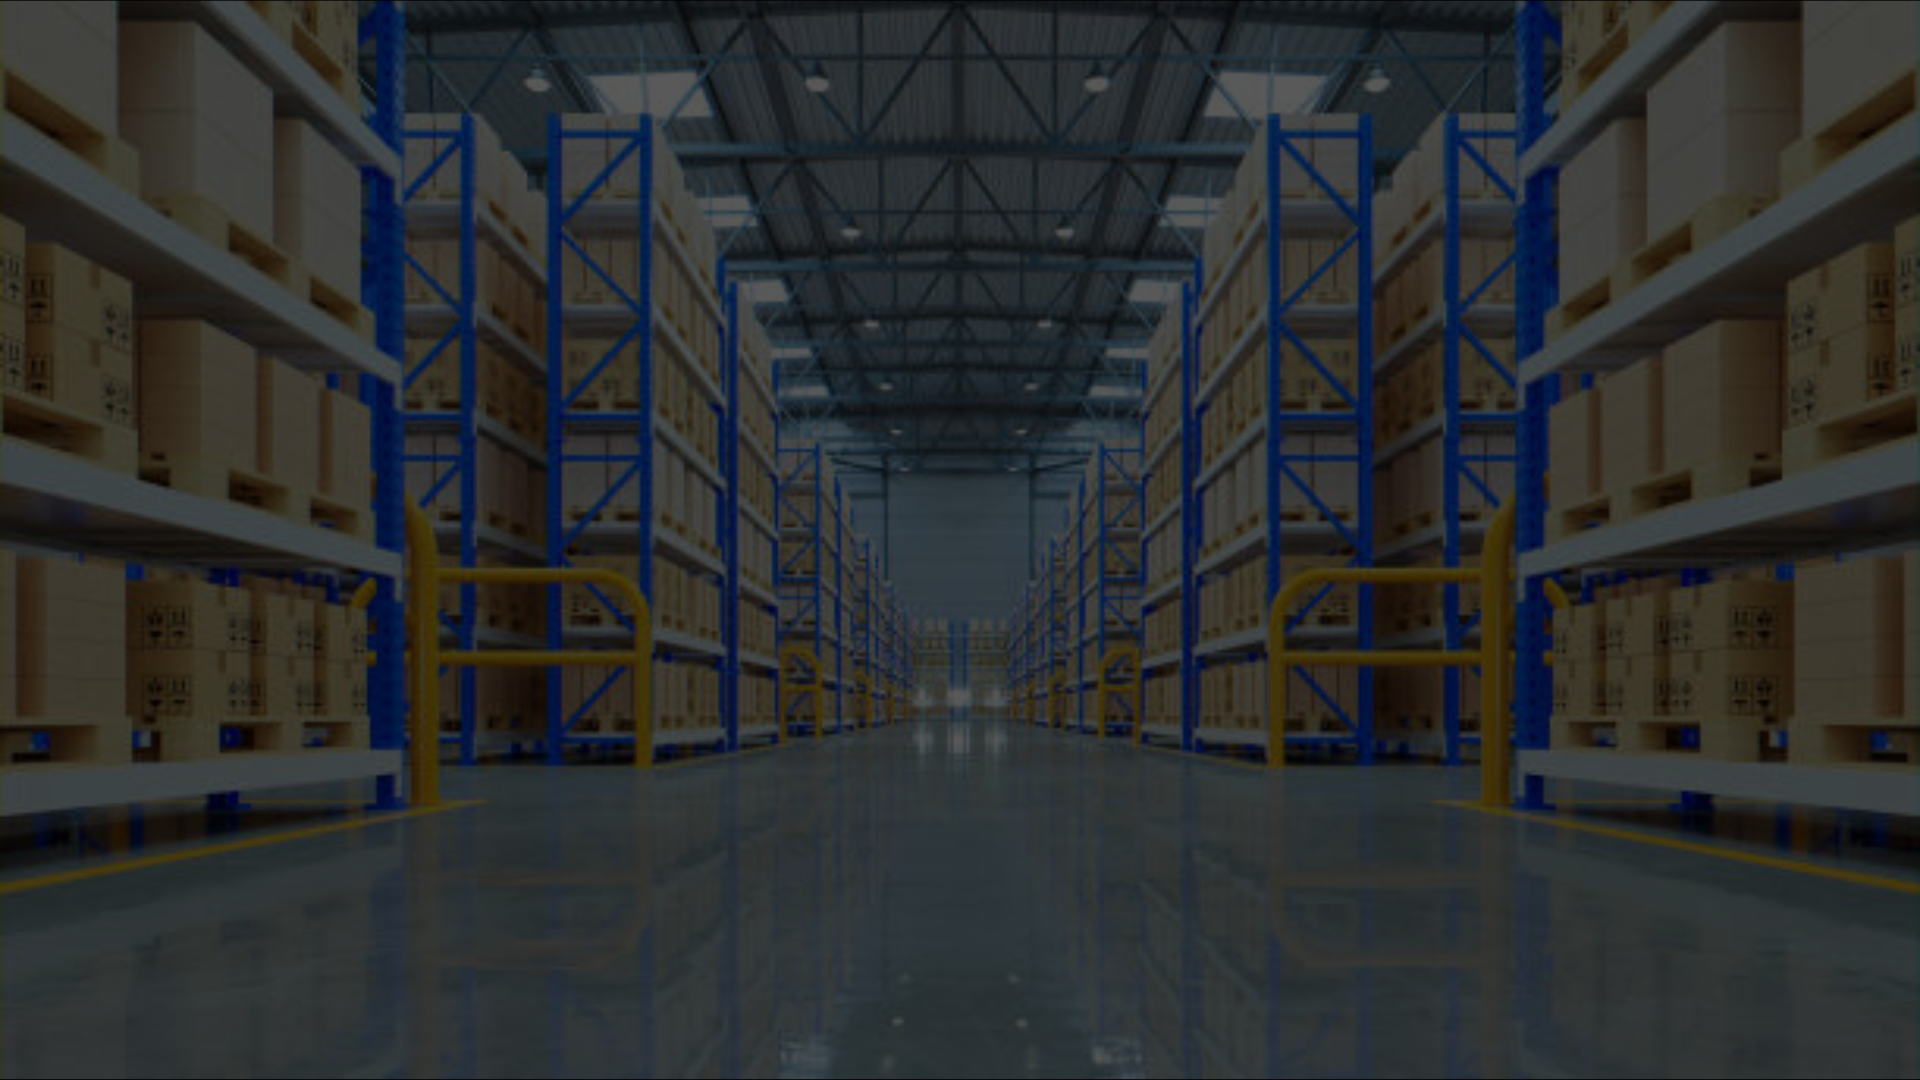
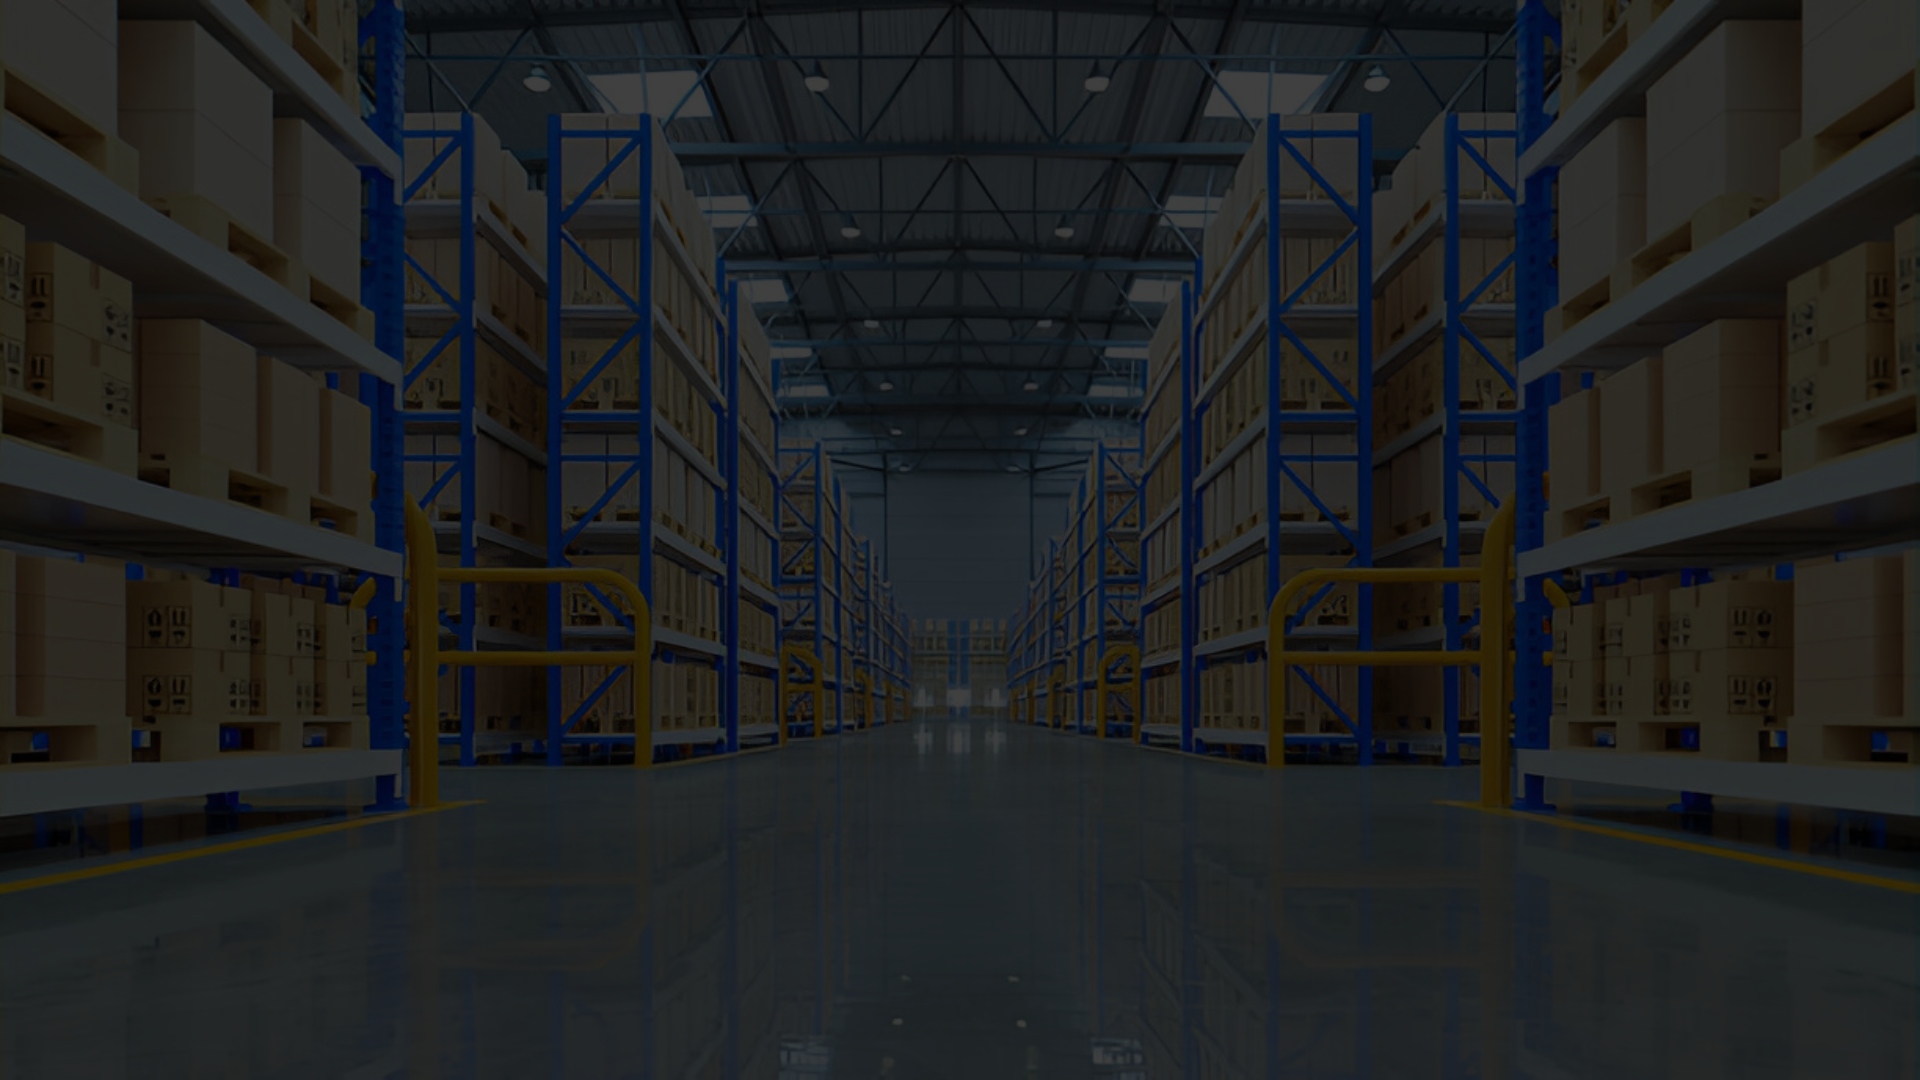
changes in design

diff --git a/Frontend/src/pages/ScanPage.jsx b/Frontend/src/pages/ScanPage.jsx
@@ -4,6 +4,7 @@ import { BrowserMultiFormatReader } from '@zxing/browser';
 import { DecodeHintType, BarcodeFormat } from '@zxing/library';
 import { useNavigate } from 'react-router-dom';
 import axios from 'axios';
+import bg from '../assets/bg page.png';
 
 const ScanPage = () => {
   const [items, setItems] = useState([]);
@@ -165,89 +166,96 @@ const ScanPage = () => {
   return (
     <>
       <Navbar />
-      <div className="pt-20 min-h-screen bg-gradient-to-br from-[#fefefe] to-[#f1f5ff] px-6 py-10 flex flex-wrap justify-center gap-8 items-start">
-        {/* Scanner Box */}
-        <div className="bg-white rounded-2xl shadow-lg p-6 w-full max-w-md transition hover:shadow-2xl">
-          <h2 className="text-xl font-semibold text-trueblue mb-4 text-center">📷 Scan Barcode</h2>
-          <video
-            ref={videoRef}
-            className="w-full h-60 object-cover rounded-md bg-black"
-            muted
-            playsInline
-          />
-          <button
-            onClick={handleToggleScan}
-            className={`mt-5 w-full py-2 font-semibold rounded-md transition text-white ${scanning
-              ? 'bg-red-500 hover:bg-red-600'
-              : 'bg-trueblue hover:bg-blue-800'
-              }`}
-          >
-            {scanning ? 'Stop Scanning' : 'Start Scanning'}
-          </button>
-        </div>
+      <div
+        className="min-h-screen bg-cover bg-center px-6 py-10"
+        style={{ backgroundImage: `url(${bg})` }}
+      >
+        <div className="flex flex-wrap justify-center gap-8 items-start pt-20">
 
-        {/* Manual Entry */}
-        <div className="bg-white rounded-2xl shadow-lg p-6 w-full max-w-md transition hover:shadow-2xl">
-          <h2 className="text-lg font-semibold text-trueblue mb-4 text-center">Manual Entry</h2>
-          <label className="block mb-2 text-sm font-medium text-gray-700">Enter Item ID:</label>
-          <div className="flex gap-2">
-            <input
-              type="text"
-              value={manualId}
-              onChange={(e) => setManualId(e.target.value)}
-              placeholder="e.g. 123456789012"
-              className="flex-grow px-3 py-2 border border-gray-300 rounded-md focus:outline-none focus:ring-2 focus:ring-trueblue"
+          
+          {/* Scanner Box */}
+          <div className="bg-white rounded-2xl shadow-lg p-6 w-full max-w-md transition hover:shadow-2xl">
+            <h2 className="text-xl font-semibold text-trueblue mb-4 text-center">📷 Scan Barcode</h2>
+            <video
+              ref={videoRef}
+              className="w-full h-60 object-cover rounded-md bg-black"
+              muted
+              playsInline
             />
             <button
-              onClick={handleManualAdd}
-              className="bg-trueblue text-white px-4 py-2 rounded-md hover:text-sparkyellow transition font-medium"
+              onClick={handleToggleScan}
+              className={`mt-5 w-full py-2 font-semibold rounded-md transition text-white ${scanning
+                ? 'bg-red-500 hover:bg-red-600'
+                : 'bg-trueblue hover:bg-blue-800'
+                }`}
             >
-              Add
+              {scanning ? 'Stop Scanning' : 'Start Scanning'}
             </button>
           </div>
-        </div>
 
-        {/* Scanned Items Table */}
-        <div className="bg-white rounded-2xl shadow-lg p-6 w-full max-w-5xl transition hover:shadow-2xl">
-          <h2 className="text-xl font-semibold text-trueblue mb-4 text-center">📦 Scanned Items</h2>
-          <div className="overflow-x-auto">
-            <table className="w-full table-auto border-collapse border border-gray-300 text-sm">
-              <thead className="bg-gray-100 text-gray-700">
-                <tr>
-                  <th className="border px-4 py-2">ID</th>
-                  <th className="border px-4 py-2">Name</th>
-                  <th className="border px-4 py-2">Weight</th>
-                  <th className="border px-4 py-2">Volume</th>
-                  <th className="border px-4 py-2">Qty</th>
-                </tr>
-              </thead>
-              <tbody>
-                {items.length > 0 ? (
-                  items.map((item, i) => (
-                    <tr key={i} className="text-center">
-                      <td className="border px-4 py-2">{item.itemId}</td>
-                      <td className="border px-4 py-2">{item.name}</td>
-                      <td className="border px-4 py-2">{item.weight} kg</td>
-                      <td className="border px-4 py-2">{item.volume} cm³</td>
-                      <td className="border px-4 py-2">{item.quantity}</td>
-                    </tr>
-                  ))
-                ) : (
-                  <tr>
-                    <td colSpan="5" className="text-center py-4 text-gray-500">
-                      No items scanned yet.
-                    </td>
-                  </tr>
-                )}
-              </tbody>
-            </table>
+          {/* Manual Entry */}
+          <div className="bg-white rounded-2xl shadow-lg p-6 w-full max-w-md transition hover:shadow-2xl">
+            <h2 className="text-lg font-semibold text-trueblue mb-4 text-center">Manual Entry</h2>
+            <label className="block mb-2 text-sm font-medium text-gray-700">Enter Item ID:</label>
+            <div className="flex gap-2">
+              <input
+                type="text"
+                value={manualId}
+                onChange={(e) => setManualId(e.target.value)}
+                placeholder="e.g. 123456789012"
+                className="flex-grow px-3 py-2 border border-gray-300 rounded-md focus:outline-none focus:ring-2 focus:ring-trueblue"
+              />
+              <button
+                onClick={handleManualAdd}
+                className="bg-trueblue text-white px-4 py-2 rounded-md hover:text-sparkyellow transition font-medium"
+              >
+                Add
+              </button>
+            </div>
           </div>
-          <button
-            onClick={handleCalculate}
-            className="mt-6 w-full bg-trueblue text-white py-2 rounded-md hover:text-sparkyellow font-semibold transition"
-          >
-            Calculate Best Box
-          </button>
+
+          {/* Scanned Items Table */}
+          <div className="bg-white rounded-2xl shadow-lg p-6 w-full max-w-5xl transition hover:shadow-2xl">
+            <h2 className="text-xl font-semibold text-trueblue mb-4 text-center">📦 Scanned Items</h2>
+            <div className="overflow-x-auto">
+              <table className="w-full table-auto border-collapse border border-gray-300 text-sm">
+                <thead className="bg-gray-100 text-gray-700">
+                  <tr>
+                    <th className="border px-4 py-2">ID</th>
+                    <th className="border px-4 py-2">Name</th>
+                    <th className="border px-4 py-2">Weight</th>
+                    <th className="border px-4 py-2">Volume</th>
+                    <th className="border px-4 py-2">Qty</th>
+                  </tr>
+                </thead>
+                <tbody>
+                  {items.length > 0 ? (
+                    items.map((item, i) => (
+                      <tr key={i} className="text-center">
+                        <td className="border px-4 py-2">{item.itemId}</td>
+                        <td className="border px-4 py-2">{item.name}</td>
+                        <td className="border px-4 py-2">{item.weight} kg</td>
+                        <td className="border px-4 py-2">{item.volume} cm³</td>
+                        <td className="border px-4 py-2">{item.quantity}</td>
+                      </tr>
+                    ))
+                  ) : (
+                    <tr>
+                      <td colSpan="5" className="text-center py-4 text-gray-500">
+                        No items scanned yet.
+                      </td>
+                    </tr>
+                  )}
+                </tbody>
+              </table>
+            </div>
+            <button
+              onClick={handleCalculate}
+              className="mt-6 w-full bg-trueblue text-white py-2 rounded-md hover:text-sparkyellow font-semibold transition"
+            >
+              Calculate Best Box
+            </button>
+          </div>
         </div>
       </div>
     </>

diff --git a/Frontend/src/pages/Labels.jsx b/Frontend/src/pages/Labels.jsx
@@ -49,21 +49,22 @@ const Labels = () => {
           <h2 className="text-3xl font-bold text-blue-700 mb-6">🏷 Label(s) to Put</h2>
 
           {matchedLabels.length > 0 ? (
-            <ul className="space-y-4 text-left max-w-md mx-auto">
-              {matchedLabels.map((label, index) => (
-                <li key={index} className="flex items-center gap-3">
-                  <img
-                    src={`${import.meta.env.VITE_ASSET_URL}${label.icon}`}
-                    alt="icon"
-                    className="w-6 h-6"
-                  />
-                  <span className="text-gray-800 font-medium">{label.name}</span>
-                </li>
-              ))}
-            </ul>
-          ) : (
-            <p className="text-gray-600">No specific labels matched. Use general safety labels.</p>
-          )}
+  <ul className="space-y-4 flex flex-col items-center">
+    {matchedLabels.map((label, index) => (
+      <li key={index} className="flex items-center gap-3 justify-center">
+        <img
+          src={`${import.meta.env.VITE_ASSET_URL}${label.icon}`}
+          alt="icon"
+          className="w-6 h-6"
+        />
+        <span className="text-gray-800 font-medium">{label.name}</span>
+      </li>
+    ))}
+  </ul>
+) : (
+  <p className="text-gray-600">No specific labels matched. Use general safety labels.</p>
+)}
+
 
           <button
             onClick={() => navigate('/materials')}

diff --git a/Frontend/src/pages/BestBox.jsx b/Frontend/src/pages/BestBox.jsx
@@ -3,6 +3,7 @@ import Navbar from '../components/Navbar';
 import { useNavigate } from 'react-router-dom';
 import axios from 'axios';
 import boxImg from '../assets/boximg.png';
+import bg from '../assets/bg page.png';
 
 const BestBox = () => {
   const [box, setBox] = useState(null);
@@ -37,7 +38,10 @@ const BestBox = () => {
   return (
     <>
       <Navbar />
-      <div className="min-h-screen bg-blue-700 flex items-center justify-center p-6">
+      <div
+            className="min-h-screen bg-cover bg-center flex items-center justify-center p-6"
+            style={{ backgroundImage: `url(${bg})` }}
+            >
         <div className="bg-white rounded-2xl shadow-2xl max-w-3xl w-full flex flex-col lg:flex-row overflow-hidden">
 
           {/* Visual Section */}

diff --git a/Frontend/src/pages/Login.jsx b/Frontend/src/pages/Login.jsx
@@ -39,8 +39,6 @@ const Login = () => {
       className="relative min-h-screen flex items-center justify-center bg-cover bg-center"
       style={{ backgroundImage: `url(${bgImg})` }}
     >
-      {/* Dark overlay */}
-      <div className="absolute inset-0 bg-black opacity-60 z-0" />
 
       <div className="relative z-10 bg-sparkyellow rounded-2xl shadow-2xl w-full max-w-md p-8 flex flex-col items-center">
         <img
